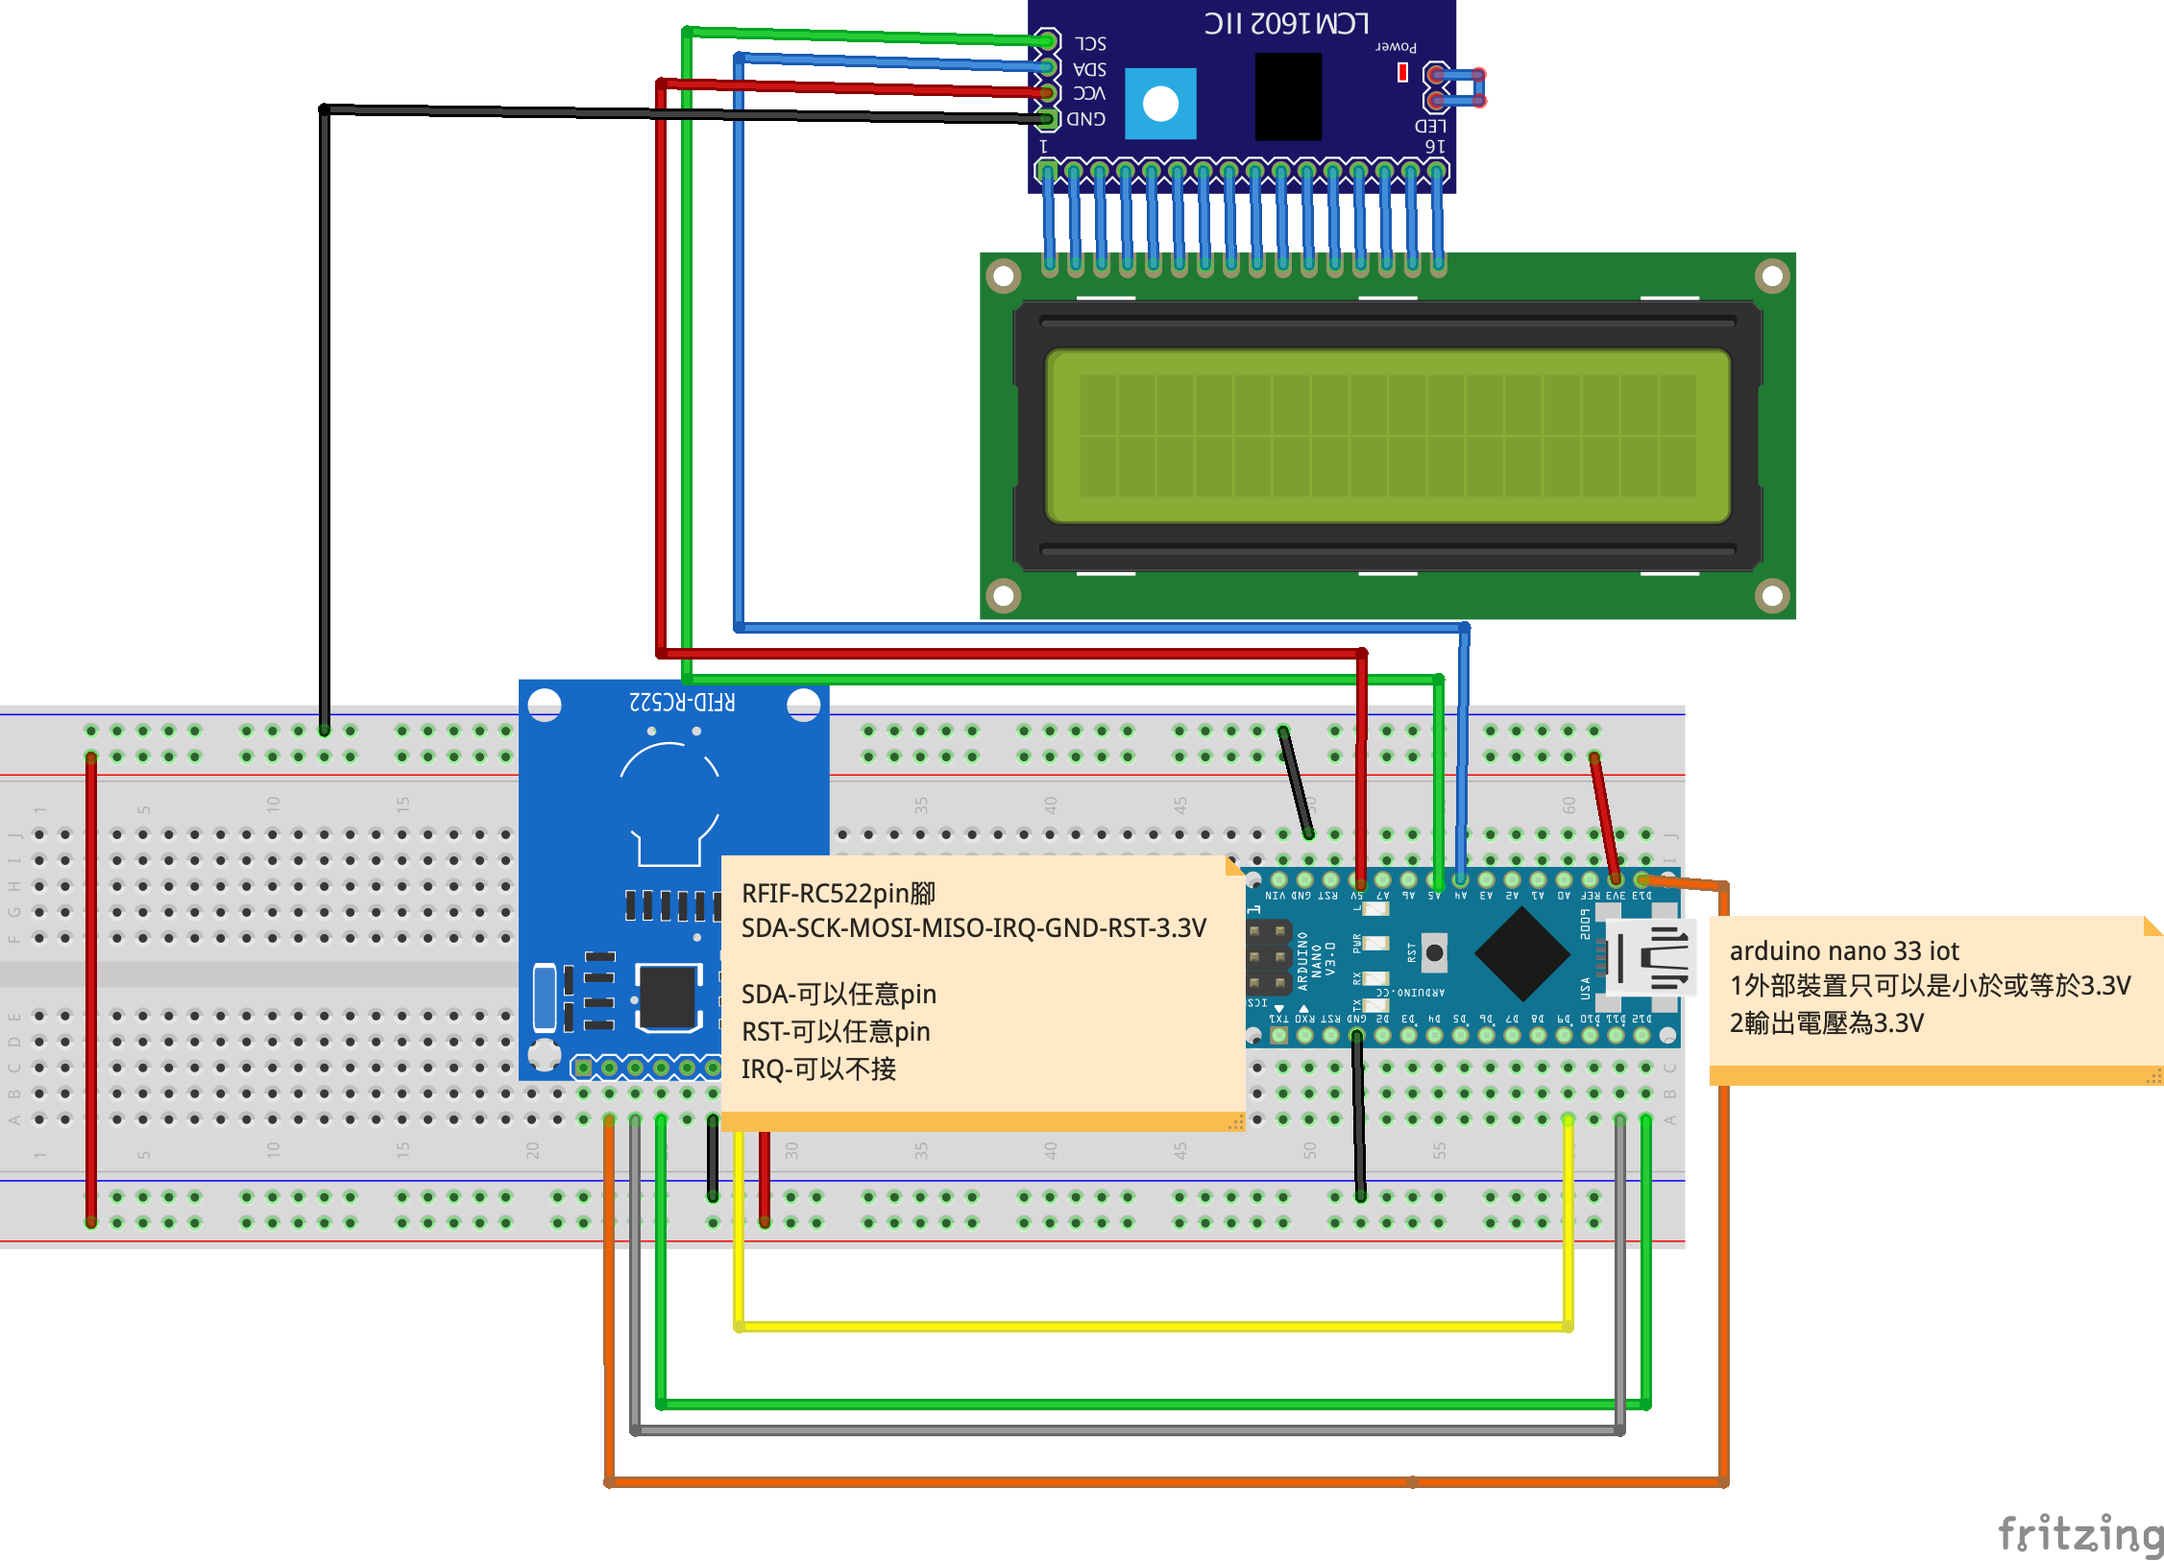
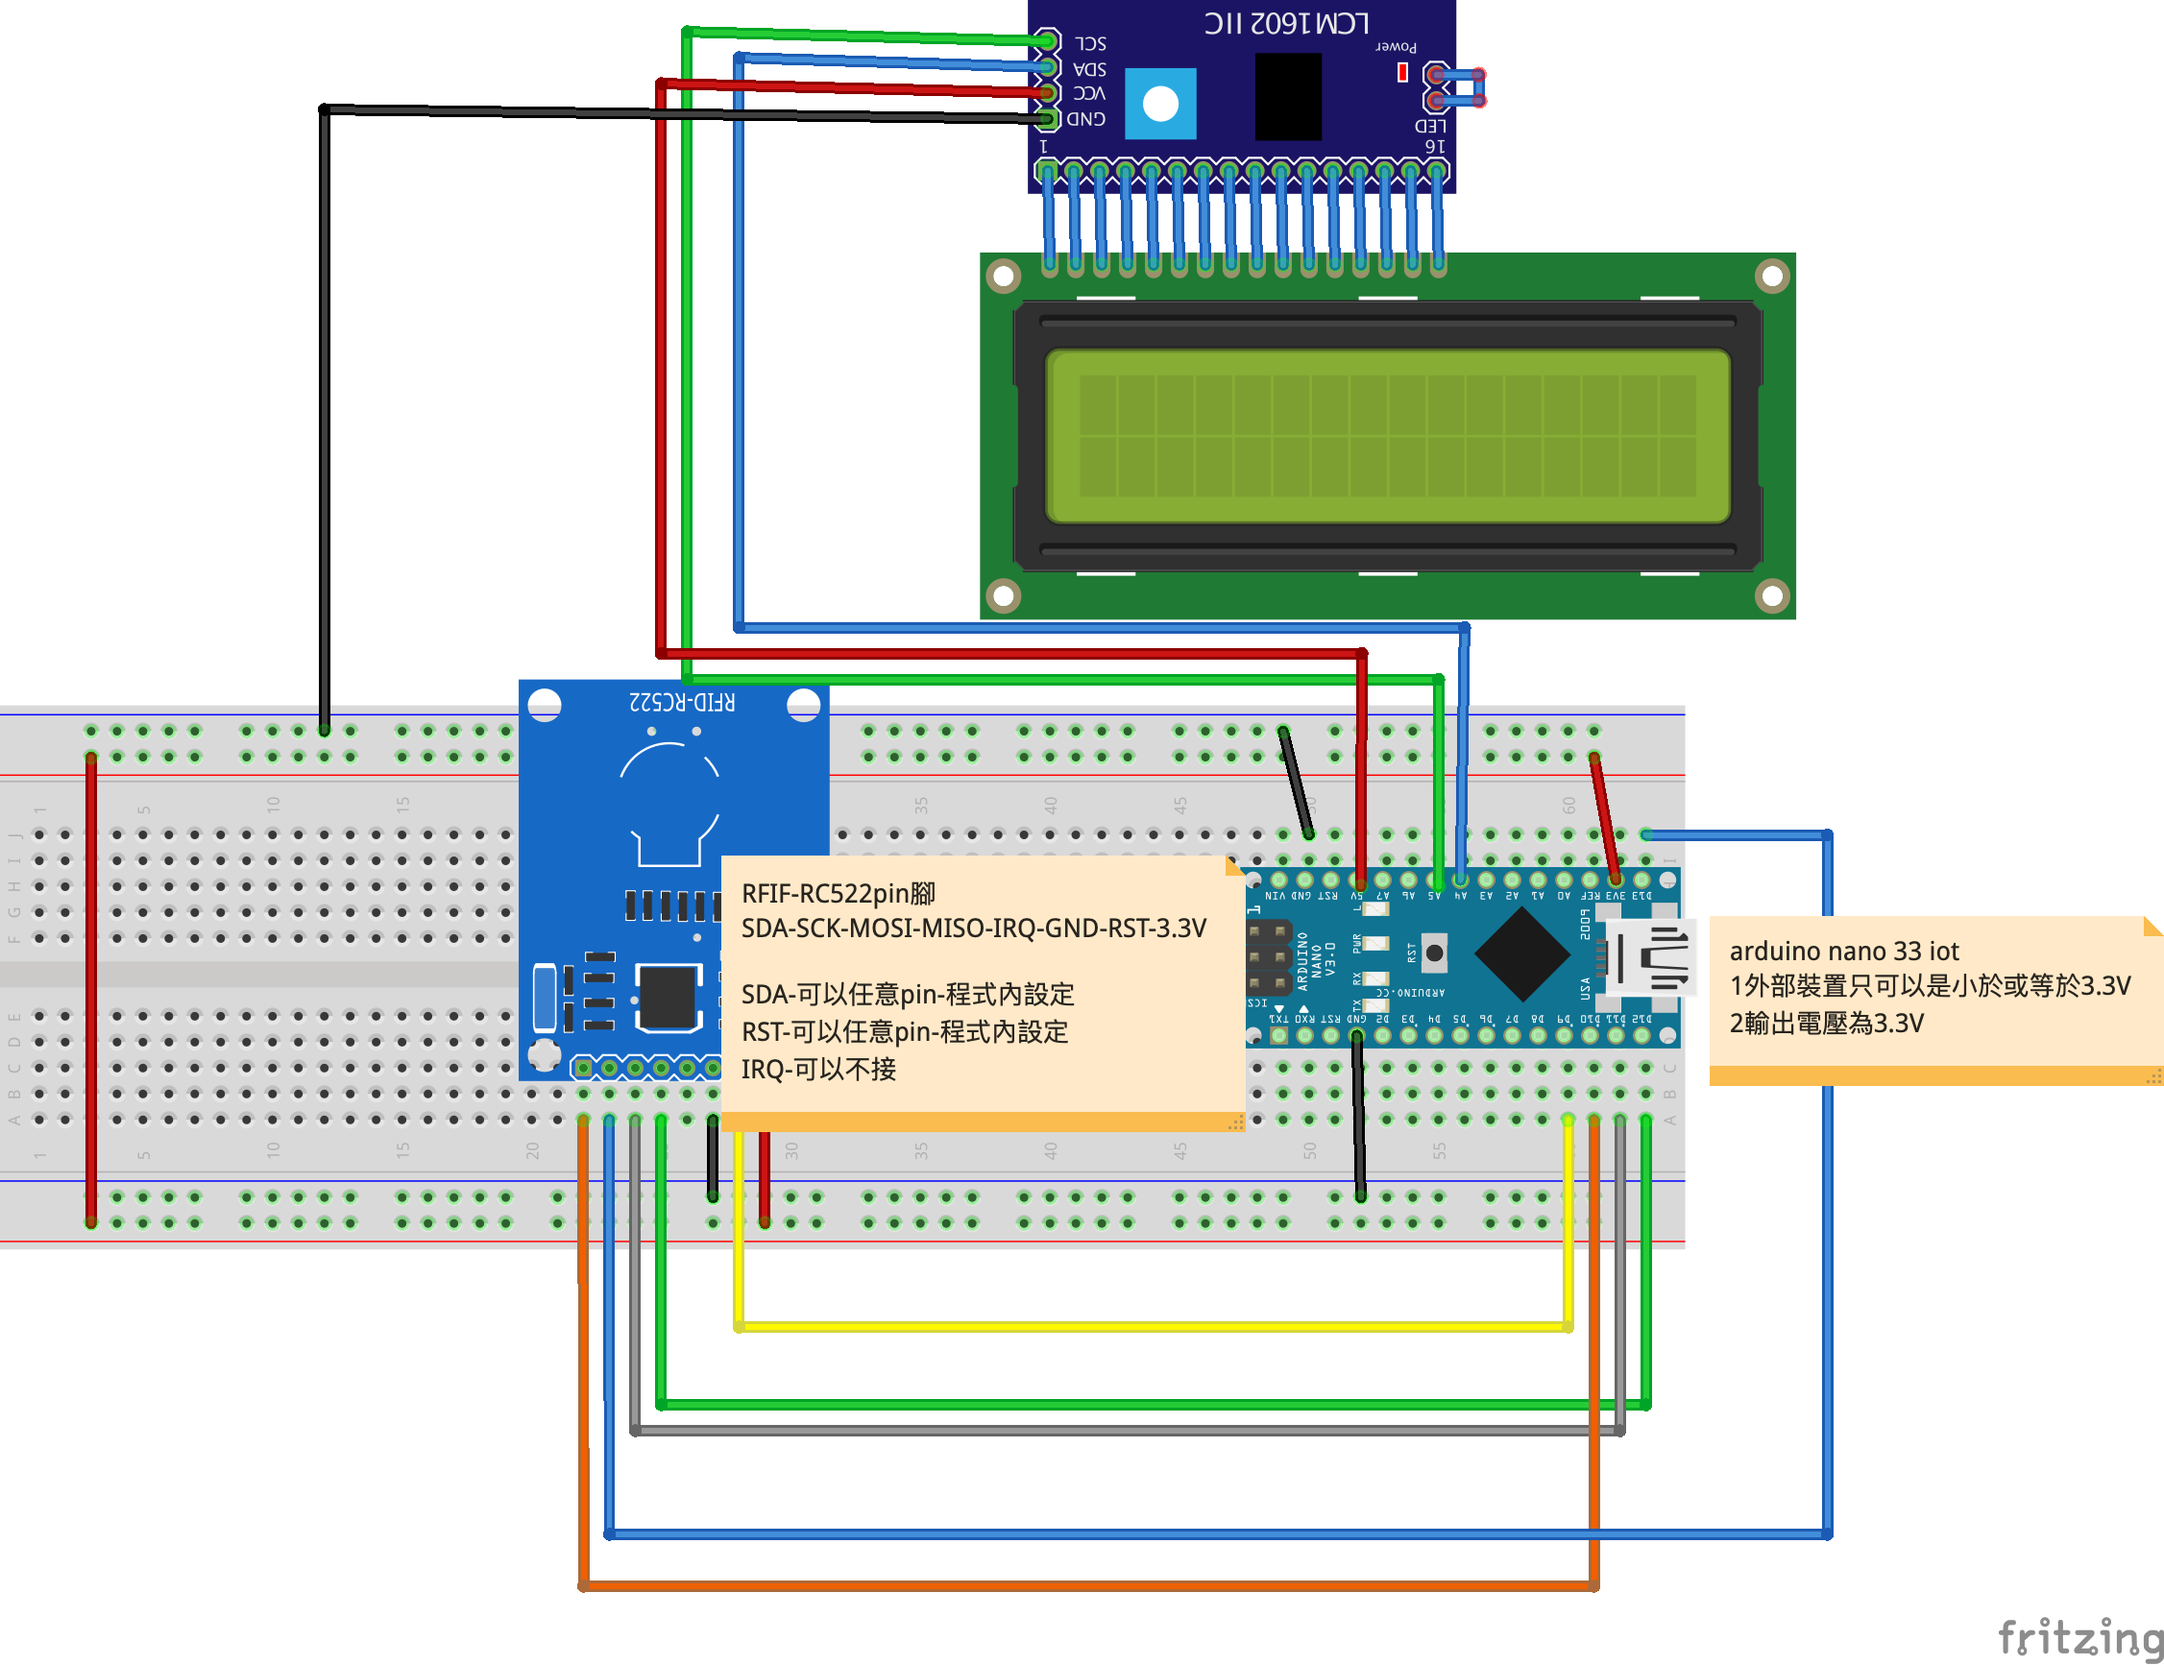
modify

Changed region(s): [[0.0, 0.3075, 1.0, 0.9533], [0.1553, 0.0, 0.8389, 0.246], [0.5593, 0.0, 0.6525, 0.0308]]

diff --git a/一般操作/3_3MFRC522/README.md b/一般操作/3_3MFRC522/README.md
@@ -8,6 +8,10 @@
 
 ![](pic1.png)
 
+### arduino nano iot 33
+
+![](pinmap.png)
+
 ### 線路圖
 ![](mfrc522_bb.png)
 
@@ -18,23 +22,26 @@
 
 ```C++
 /*
- * * mfrc_522_1.ino
+ * *mfrc522_1
  * *讀取卡片UID，從監控視窗查看
  */
 #include <SPI.h>
 #include <MFRC522.h>
 
+
 #define RST_PIN         9          
-#define SS_PIN          A4  //就是模組上的SDA接腳
+#define SS_PIN          10  //就是模組上的SDA接腳,可以任意pin腳
 
 
 MFRC522 mfrc522;   // 建立MFRC522實體
+
 
 void setup() {
   while(!Serial);
   Serial.begin(9600); 
 
-  SPI.begin();        // 初始化SPI介面
+  SPI.begin();  // 初始化SPI介面
+  
 
   mfrc522.PCD_Init(SS_PIN, RST_PIN); // 初始化MFRC522卡
   Serial.print(F("Reader "));
@@ -55,7 +62,6 @@ void loop() {
       Serial.print(F("PICC type: "));
       MFRC522::PICC_Type piccType = mfrc522.PICC_GetType(mfrc522.uid.sak);
       Serial.println(mfrc522.PICC_GetTypeName(piccType));  //顯示卡片的類型
-
       mfrc522.PICC_HaltA();  // 卡片進入停止模式
     }
 }
@@ -64,10 +70,12 @@ void loop() {
  * 這個副程式把讀取到的UID，用16進位顯示出來
  */
 void dump_byte_array(byte *buffer, byte bufferSize) {
+  
   for (byte i = 0; i < bufferSize; i++) {
     Serial.print(buffer[i] < 0x10 ? " 0" : " ");
-    Serial.print(buffer[i], HEX);
-  }
+    Serial.print(buffer[i], HEX);        
+   }
+      
 }
 ```
 
